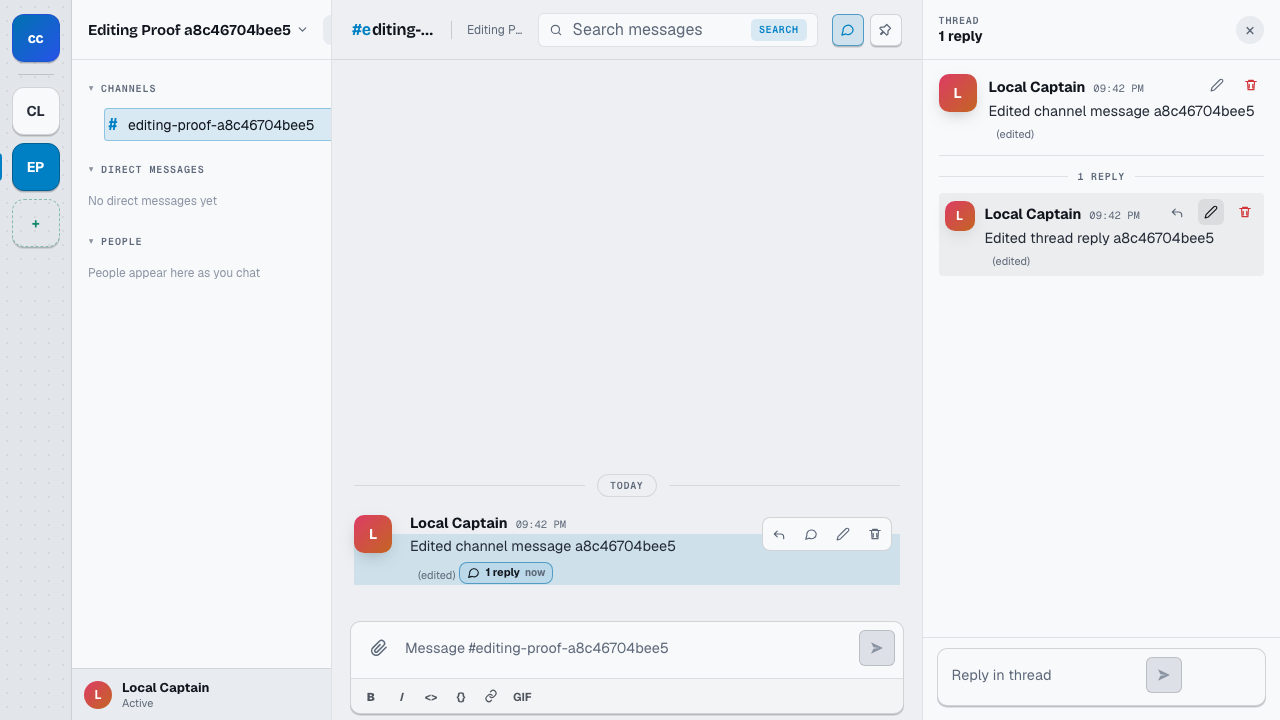
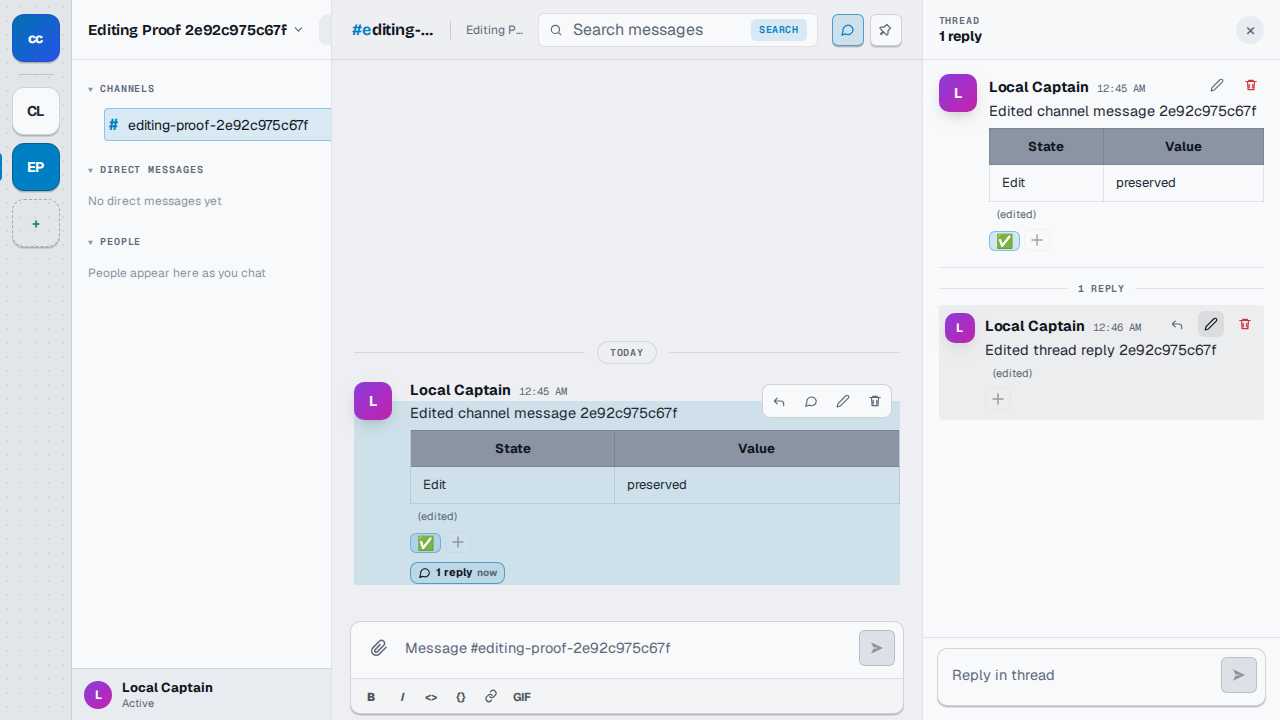
docs: refresh message editing proof

diff --git a/docs/proof/message-editing-proof.md b/docs/proof/message-editing-proof.md
@@ -1,26 +1,48 @@
 # Message editing behavior proof
 
-This proof exercises the locally built ClickClack production web bundle through the real Go API and rendered browser UI.
+This proof exercises the built ClickClack production web bundle through the real
+Go API and rendered browser UI.
 
 ## Reproduction
 
 ```sh
+MESSAGE_EDITING_EDITOR_PROOF_PATH=docs/proof/message-editing-editor.png \
 MESSAGE_EDITING_PROOF_PATH=docs/proof/message-editing-real-app.png \
-CLICKCLACK_E2E_PORT=18212 \
-pnpm exec playwright test tests/e2e/message-editing.spec.ts
+pnpm exec playwright test \
+  tests/e2e/message-editing.spec.ts \
+  tests/e2e/embed-channel.spec.ts \
+  tests/e2e/embed-thread.spec.ts
 ```
 
-Result: `3 passed (7.7s)`.
+Result: `7 passed (39.4s)`.
 
-The browser tests create isolated workspaces and channels, send and edit a channel message through the rendered UI, verify the editor resolves to visible theme styles, prove only one editor mounts when the thread root is visible in two surfaces, restore focus to the initiating Edit action on Escape, preserve an unsaved draft when another Edit action is activated, reload to prove persistence, wait for a thread reply to persist before editing and reloading it, prove the client submits exact drafts while matching the server's Unicode whitespace normalization, reject normalized no-op and empty keyboard-shortcut edits, and keep the active draft plus its visible error mounted when a save fails while blocking a competing editor.
+The browser tests cover:
 
-It also closes the thread while its root editor owns the global edit session,
-then opens the timeline editor for that message, proving an unmounted surface
-cannot leave behind a stale lock that blocks future edits.
-The run also verifies that closing and reopening a thread discards its unsubmitted
-root draft instead of unexpectedly remounting edit mode, and that keyboard focus
-reveals the timeline action bar without requiring pointer hover.
-An unsaved timeline draft is carried by the parent edit session across an SPA
-channel switch that unmounts and remounts the message row.
+- channel messages, direct messages, thread roots, and thread replies;
+- authenticated channel and thread embeds;
+- persisted edits, edited indicators, Markdown tables, and retained reactions;
+- exact draft submission with server-compatible Unicode whitespace checks;
+- empty, no-op, failed, delayed, and competing save paths;
+- focus restoration, keyboard controls, and theme-resolved editor styling;
+- draft retention across channel switches and virtualized row recycling;
+- thread-close cancellation, realtime reconciliation, and deletion cleanup.
 
-The committed screenshot `message-editing-real-app.png` shows the resulting ClickClack channel and thread, including both edited bodies and their `(edited)` indicators.
+The final suite ran through Crabbox on Hetzner:
+
+```text
+run: run_0c54703db827
+lease: cbx_09128e47bb1d
+machine: ccx33
+result: 7 passed (39.4s)
+lease stopped: true
+```
+
+The broader `pnpm check` stages also completed the production build, Go package
+tests, fake company deployment tests, desktop tests, type checking, and linting.
+Its only initial failure was formatting in the newly added test file; the
+corrected final suite reran `pnpm fmt:check` successfully before Playwright.
+
+`message-editing-editor.png` captures the focused inline reply editor.
+`message-editing-real-app.png` captures the saved channel and thread state,
+including Markdown rendering, reactions, thread structure, and edited
+indicators.
